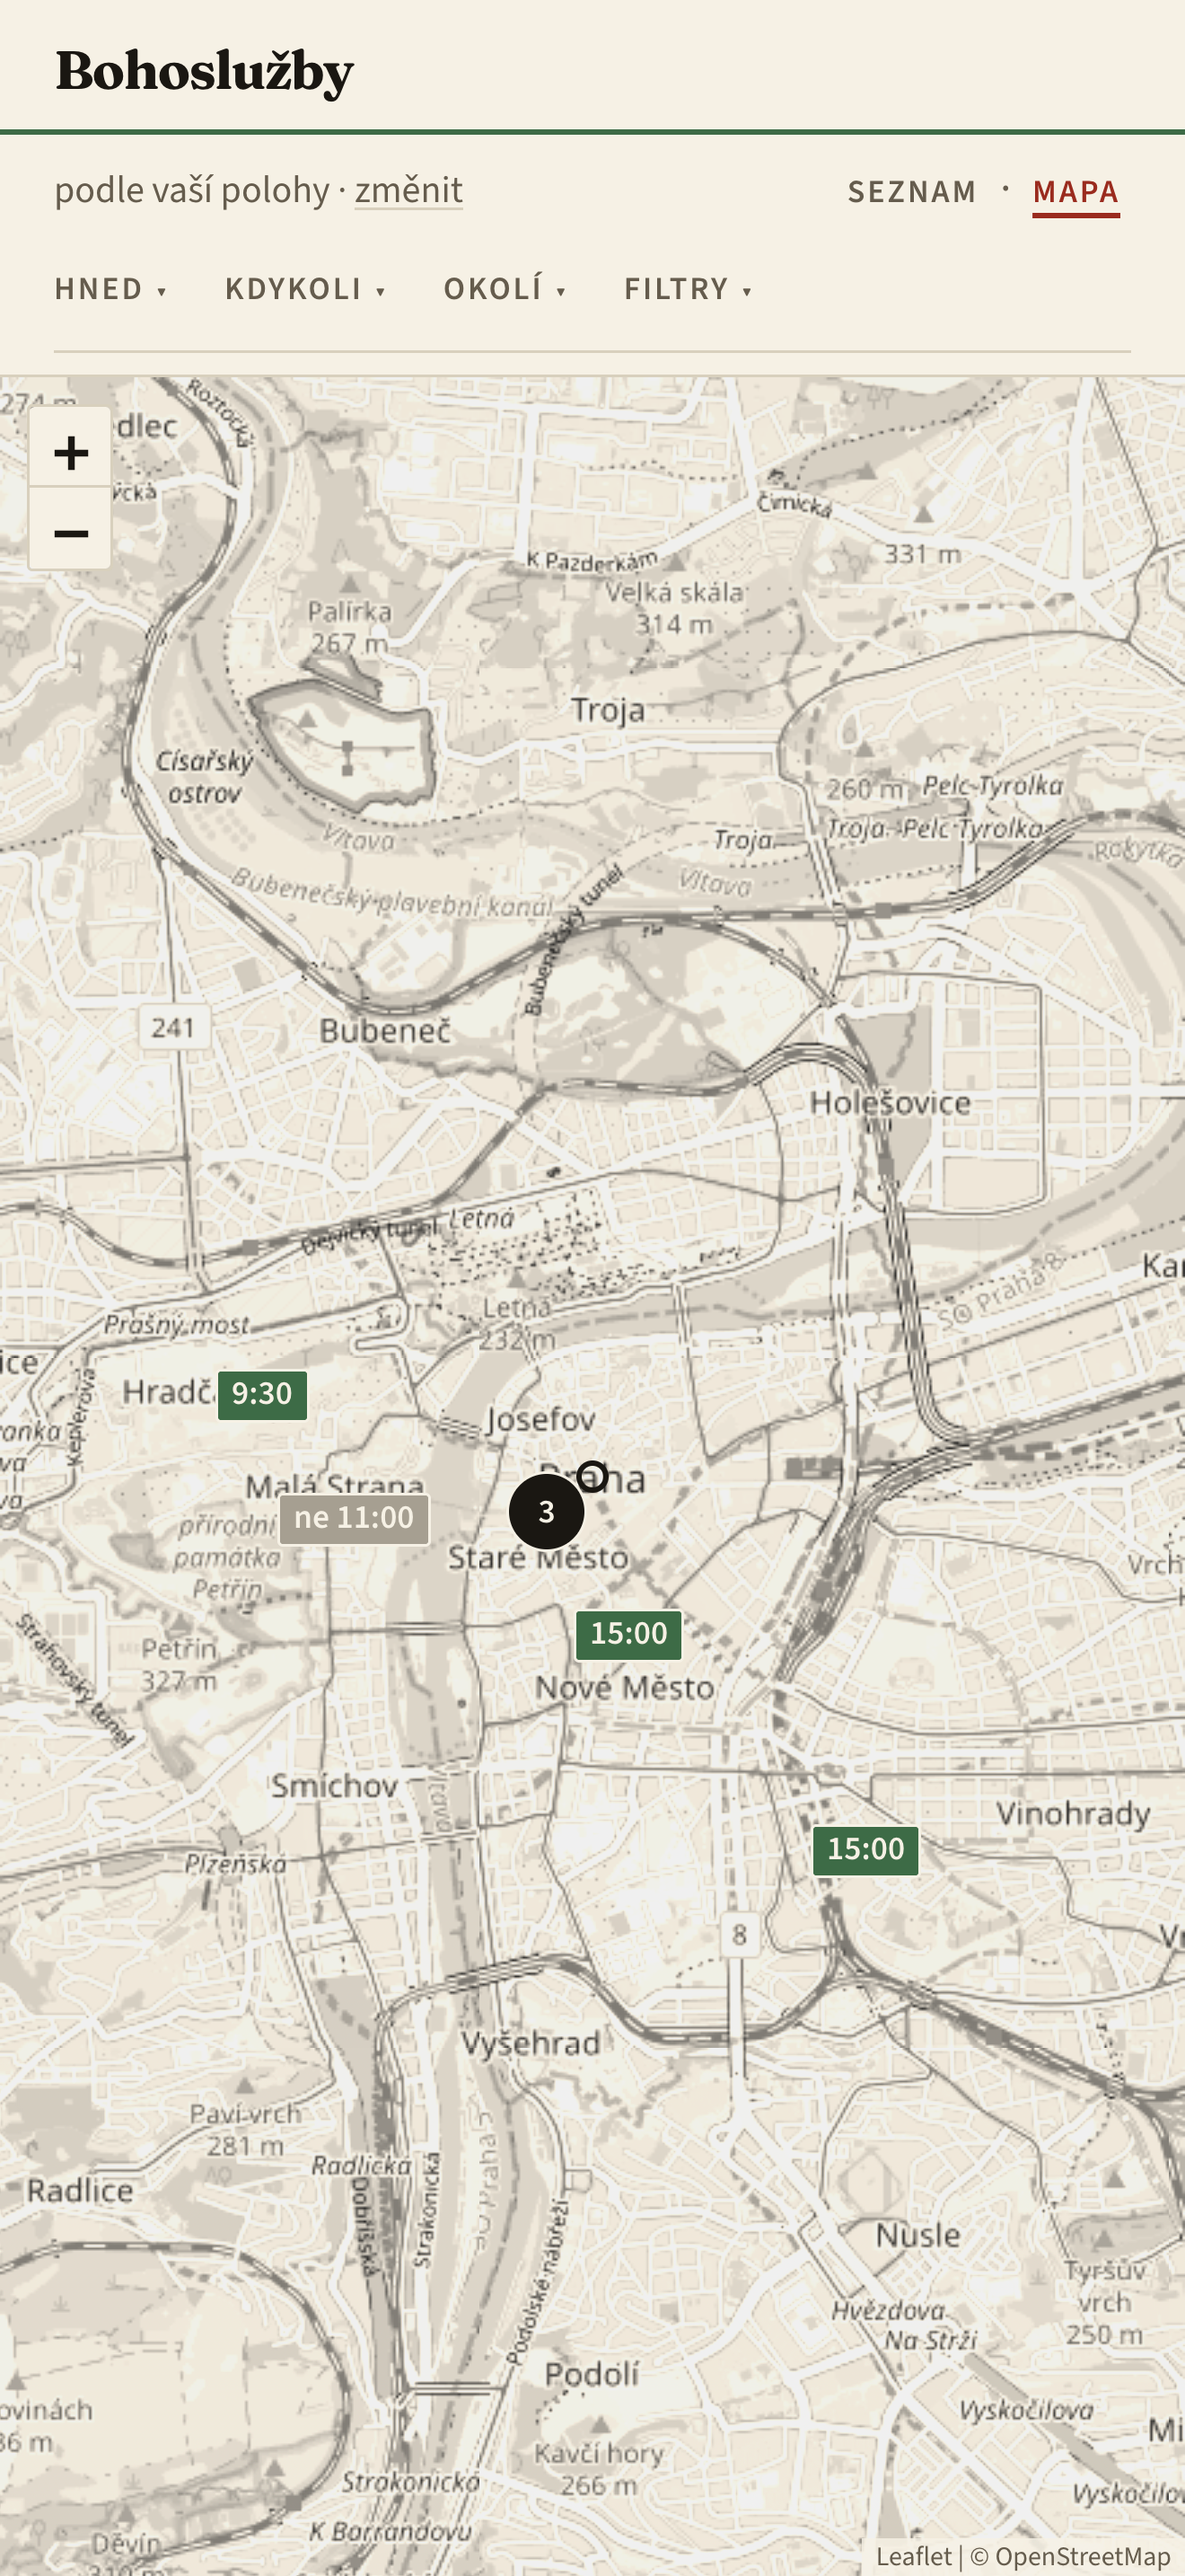
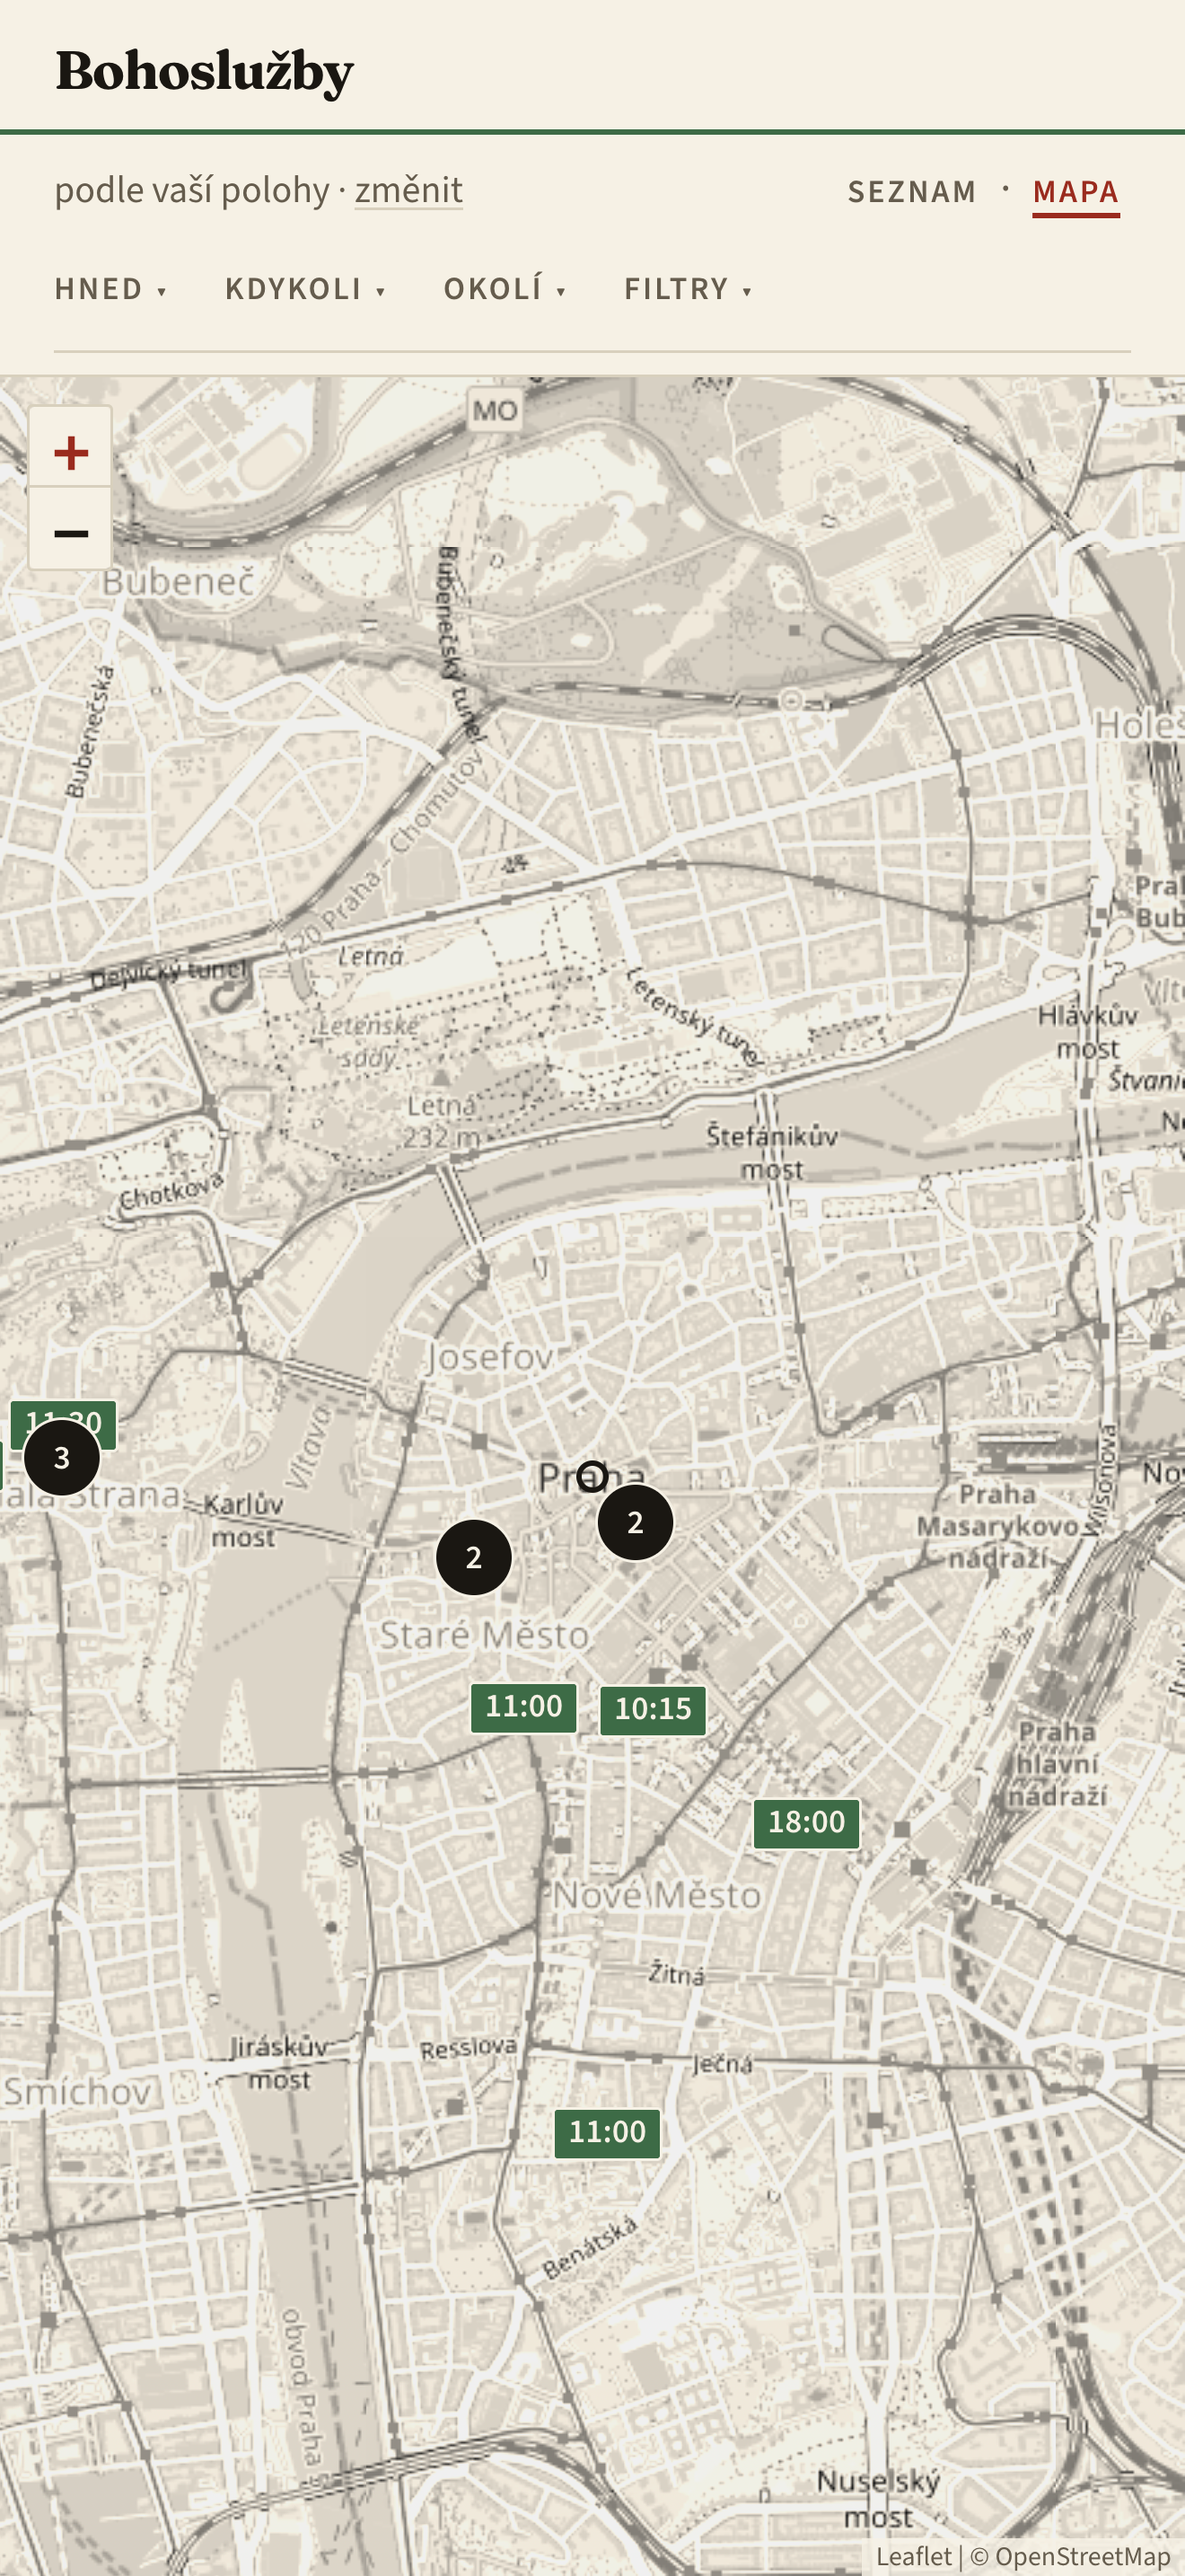
fix(map): chips no longer drift on pan; denser store hero (#21)
Bug (user-reported): panning the map made the time chips 'jump around' and
settle slightly shifted each time. Cause: clustering ran only over the padded-
viewport subset, so a grid cell straddling the edge gained/lost members every
moveend — its centroid and the single-chip-vs-count decision recomputed. Fix:
cluster over ALL churches (buckets key on absolute world-pixel coords at the
current zoom → pan-invariant); only RENDER the markers on screen. Regression
test: gridCluster pan-invariance.

Also: store-shots map hero uses a dense central-Prague mock + one zoom step +
a plain-green Sunday clock, so the hero shows a field of green time chips (the
real product's look), not the sparse fixture's two-or-three. Generator syncs
into fastlane/screenshots/cs/ automatically.

Gates: 232 vitest, tsc clean.

Claude-Session: https://claude.ai/code/session_01H5AA9dRxCnS1eMCZfxa2bG

diff --git a/e2e/store-shots.spec.ts b/e2e/store-shots.spec.ts
@@ -7,11 +7,43 @@
 // synced into ios/App/fastlane/screenshots/cs/ (deliver's locale dir, the
 // upload source). Both MUST stay in lockstep — a v1.1 upload once shipped stale
 // shots because only store-assets was regenerated (verify_listing caught it).
+import type { Page } from '@playwright/test'
 import { test } from '@playwright/test'
 import { cpSync, mkdirSync, readdirSync } from 'node:fs'
 import { FIXED_NOW, PRAGUE, mockData } from './fixtures'
 
 const FASTLANE_CS = 'ios/App/fastlane/screenshots/cs'
+
+// A denser central-Prague dataset used ONLY for the map hero screenshot, so it
+// looks like the real product (many next-mass chips) instead of the sparse
+// shared test fixture. FIXED_NOW is Sunday 09:00 CEST, so every church carries
+// a Sunday ('7') mass later the same day → all render as green time chips.
+// Real church coords, spread across Staré Město + Malá Strana so they decluster.
+const HERO: Array<[string, string, number, number, string]> = [
+  ['h1', 'Matky Boží před Týnem', 50.0876, 14.4224, '09:30'],
+  ['h2', 'Nejsvětějšího Salvátora', 50.0863, 14.4165, '14:00'],
+  ['h3', 'sv. Havla', 50.0855, 14.4229, '10:00'],
+  ['h4', 'Panny Marie Sněžné', 50.0827, 14.4227, '10:15'],
+  ['h5', 'sv. Jiljí', 50.0854, 14.4185, '10:30'],
+  ['h6', 'sv. Martina ve zdi', 50.0836, 14.4186, '11:00'],
+  ['h7', 'sv. Mikuláše (Malá Strana)', 50.0879, 14.4036, '10:00'],
+  ['h8', 'sv. Tomáše', 50.0902, 14.4039, '11:30'],
+  ['h9', 'Panny Marie Vítězné (Jezulátko)', 50.0872, 14.4038, '19:00'],
+  ['h10', 'sv. Josefa', 50.0886, 14.4058, '17:00'],
+  ['h11', 'katedrála sv. Víta', 50.0902, 14.4003, '10:00'],
+  ['h12', 'sv. Jindřicha', 50.0837, 14.4276, '18:00'],
+  ['h13', 'Nanebevzetí P. Marie (Strahov)', 50.0855, 14.3893, '09:00'],
+  ['h14', 'sv. Ignáce', 50.0782, 14.4213, '11:00'],
+]
+
+async function mockHeroMap(page: Page) {
+  const index = HERO.map(([id, name, lat, lng]) => [id, name, 'Praha 1', lat, lng, 0, '50-14'])
+  const shard = Object.fromEntries(
+    HERO.map(([id, , , , time]) => [id, { u: '2026-06-14', p: '', pa: '', c: [], s: [['7', time, 'česky', 0, 'mše sv.', '']] }]),
+  )
+  await page.route('**/data/churches.json', (r) => r.fulfill({ json: index }))
+  await page.route('**/data/services/**', (r) => r.fulfill({ json: shard }))
+}
 
 const DEVICES = [
   { name: 'iphone-6.9', viewport: { width: 440, height: 956 }, dsf: 3 },
@@ -31,17 +63,30 @@ for (const d of DEVICES) {
     test('store screens', async ({ page }) => {
       test.skip(!!process.env.CI, 'store screenshots are generated locally, not in CI')
       const dir = `store-assets/ios/${d.name}`
-      await page.clock.install({ time: FIXED_NOW })
-      await mockData(page)
+      // A plain-green ordinary Sunday 09:00 CEST: the dense hero's '7' masses
+      // are TODAY → vibrant green "HH:MM" chips, and the shared fixture (shots
+      // 2-3) shows its Sunday masses too. (Install once — juggling the clock
+      // mid-test starved Leaflet's tile fade and blanked the map.) 2026-07-12
+      // has no feast, so --season stays green, not a gold solemnity.
+      await page.clock.install({ time: new Date('2026-07-12T07:00:00Z') })
 
-      // 1 — MAP with next-mass time chips (the centerpiece — leads the listing)
+      // 1 — MAP with next-mass time chips (the centerpiece — leads the listing).
+      // Dense hero mock + one zoom-in step: the central-Prague churches spread
+      // into a field of individual green time chips (the real product's look),
+      // not the sparse shared fixture's two-or-three.
+      await mockHeroMap(page)
       await page.goto('/')
       await page.getByRole('button', { name: 'mapa' }).click()
       await page.getByTestId('mapa').waitFor()
-      await page.waitForTimeout(1200) // let tiles/chips settle before the hero shot
+      await page.waitForFunction(() => document.querySelectorAll('.leaflet-tile-loaded').length > 4, { timeout: 8000 }).catch(() => {})
+      await page.waitForTimeout(500)
+      await page.locator('.leaflet-control-zoom-in').click()
+      await page.waitForFunction(() => document.querySelectorAll('.leaflet-tile-loaded').length > 4, { timeout: 8000 }).catch(() => {})
+      await page.waitForTimeout(900) // let chips settle before the hero shot
       await page.screenshot({ path: `${dir}/1-map.png` })
 
-      // 2 — nearest masses list (the core value)
+      // 2 — nearest masses list (the core value) — the shared fixture
+      await mockData(page)
       await page.goto('/')
       await page.getByText('kostel Panny Marie Sněžné').first().waitFor()
       await page.evaluate(() => document.fonts.ready.then(() => undefined))

diff --git a/src/MapView.tsx b/src/MapView.tsx
@@ -202,7 +202,14 @@ export default function MapView({
       for (const u of selectUpcoming(now, origin, visible, byId, filters, cas, day, { limit: Infinity })) {
         if (!matched.has(u.church.id)) matched.set(u.church.id, u) // ordo: keep the day's earliest
       }
-      const pts = visible.map((c) => {
+      // Cluster over ALL churches, not just the viewport subset. Bucket
+      // membership must not depend on the pan: a grid cell straddling the
+      // viewport edge used to gain/lose members every moveend, so its centroid
+      // (and the single-chip-vs-count-circle decision) recomputed and the chips
+      // visibly drifted. Buckets key on absolute world-pixel coords at this
+      // zoom — pan-invariant — so clusters are decided once; we only RENDER the
+      // markers that fall on screen.
+      const pts = churches.map((c) => {
         const p = map.project([c.lat, c.lng], zoom)
         return { x: p.x, y: p.y, item: c }
       })
@@ -210,6 +217,7 @@ export default function MapView({
       for (const cl of gridCluster(pts, CELL_PX)) {
         if (cl.items.length === 1) {
           const church = cl.items[0]
+          if (!bounds.contains([church.lat, church.lng])) continue
           const next = matched.get(church.id)
           // ordo days (dnes/neděle/…) put every chip on the chosen day — the
           // prefix would be noise there; only "hned" can surprise with a
@@ -232,6 +240,7 @@ export default function MapView({
           marker.getElement()?.setAttribute('aria-label', church.name)
         } else {
           const latlng = map.unproject(L.point(cl.x, cl.y), zoom)
+          if (!bounds.contains(latlng)) continue
           L.marker(latlng, {
             icon: clusterIcon(cl.items.length, cl.items.some((c) => matched.has(c.id))),
             title: churchCount(cl.items.length),

diff --git a/src/domain/cluster.test.ts b/src/domain/cluster.test.ts
@@ -47,3 +47,24 @@ describe('gridCluster', () => {
     expect(gridCluster([], 64)).toEqual([])
   })
 })
+
+describe('gridCluster pan-invariance (regression: chips drifted on pan)', () => {
+  // The map bug: clustering ran over the viewport subset, so a cell at the
+  // edge gained/lost members as you panned and its centroid shifted. The fix
+  // feeds ALL churches every render; this pins the property the fix relies on —
+  // a point's bucket and centroid depend ONLY on the points in its own cell,
+  // never on far points elsewhere.
+  it('a distant point never perturbs another cell\'s bucket or centroid', () => {
+    const near = [
+      { x: 10, y: 10, item: 'a' },
+      { x: 20, y: 20, item: 'b' },
+    ]
+    const withFar = [...near, { x: 5000, y: 5000, item: 'far' }]
+    const cellPx = 64
+    const a = gridCluster(near, cellPx).find((c) => c.items.includes('a'))!
+    const b = gridCluster(withFar, cellPx).find((c) => c.items.includes('a'))!
+    expect(b.items.sort()).toEqual(a.items.sort())
+    expect(b.x).toBe(a.x)
+    expect(b.y).toBe(a.y)
+  })
+})
